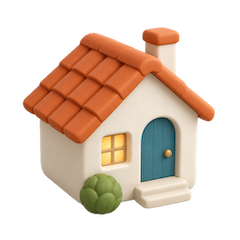
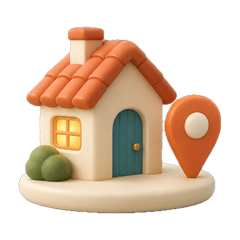
feat: Home switch says Near Home and Away from home, with a house-and-pin and a train

diff --git a/src/app/(tabs)/index.tsx b/src/app/(tabs)/index.tsx
@@ -299,7 +299,7 @@ export default function Home() {
                 onChange={(t) => dispatch({ type: 'setHomeTab', tab: t })}
                 options={[
                   { key: 'near', label: 'Near Home', count: near.length, icon: ICONS_3D.near.source, story: ICONS_3D.near.story },
-                  { key: 'cities', label: 'Cities', count: away.length, icon: ICONS_3D.cities.source, story: ICONS_3D.cities.story },
+                  { key: 'cities', label: 'Away from home', count: away.length, icon: ICONS_3D.away.source, story: ICONS_3D.away.story },
                 ]}
               />
               <Animated.View key={tab} entering={FADE_IN} style={styles.grid}>
@@ -458,8 +458,8 @@ function Empty({ tab, homeName, onSetHome }: { tab: HomeTab; homeName: string | 
   }
   return (
     <View style={styles.empty}>
-      <Icon3D source={ICONS_3D[tab === 'near' ? 'near' : 'cities'].source} size={EMPTY_ICON} story={ICONS_3D[tab === 'near' ? 'near' : 'cities'].story} tappable playOnShow />
-      <Text variant="headline" accessibilityRole="header">{tab === 'near' ? 'Nothing near home yet' : 'No cities yet'}</Text>
+      <Icon3D source={ICONS_3D[tab === 'near' ? 'near' : 'away'].source} size={EMPTY_ICON} story={ICONS_3D[tab === 'near' ? 'near' : 'away'].story} tappable playOnShow />
+      <Text variant="headline" accessibilityRole="header">{tab === 'near' ? 'Nothing near home yet' : 'Nothing away from home yet'}</Text>
       <Text variant="body">
         {tab === 'near'
           ? `Save a video of a café, a waterfall or a drive around ${homeName}. It lands here, ready for a free Saturday.`

diff --git a/src/components/icons3d.ts b/src/components/icons3d.ts
@@ -1,12 +1,12 @@
 import type { Story } from '@/components/Icon3D';
 
-// The app's 3D icons (made in Figma, 30 Oct 2026; full-size pictures in docs/mockups/3d/icons), each
+// The app's 3D icons (made in Figma, 30 Oct 2026; near and away remade 30 Oct; full-size pictures in docs/mockups/3d/icons), each
 // with the little story it plays when tapped. `at` is measured on the picture itself.
 export const ICONS_3D = {
-  /** Near Home: the house puffs smoke from its chimney. */
-  near: { source: require('@/assets/images/icons3d/near.png'), story: { kind: 'smoke', at: { x: 0.66, y: 0.14 } } },
-  /** Cities: the windows catch the light. */
-  cities: { source: require('@/assets/images/icons3d/cities.png'), story: { kind: 'sparkle', at: { x: 0.48, y: 0.42 } } },
+  /** Near Home: a house with a pin beside it; the house puffs smoke from its chimney. */
+  near: { source: require('@/assets/images/icons3d/near.png'), story: { kind: 'smoke', at: { x: 0.34, y: 0.13 } } },
+  /** Away from home: a train; its headlight catches the light. */
+  away: { source: require('@/assets/images/icons3d/away.png'), story: { kind: 'sparkle', at: { x: 0.21, y: 0.44 } } },
   /** Spots: the pin lands, and a ring spreads round its foot. */
   spots: { source: require('@/assets/images/icons3d/spots.png'), story: { kind: 'ring', at: { x: 0.5, y: 0.84 } } },
   /** Trips: the luggage tag glints. */
